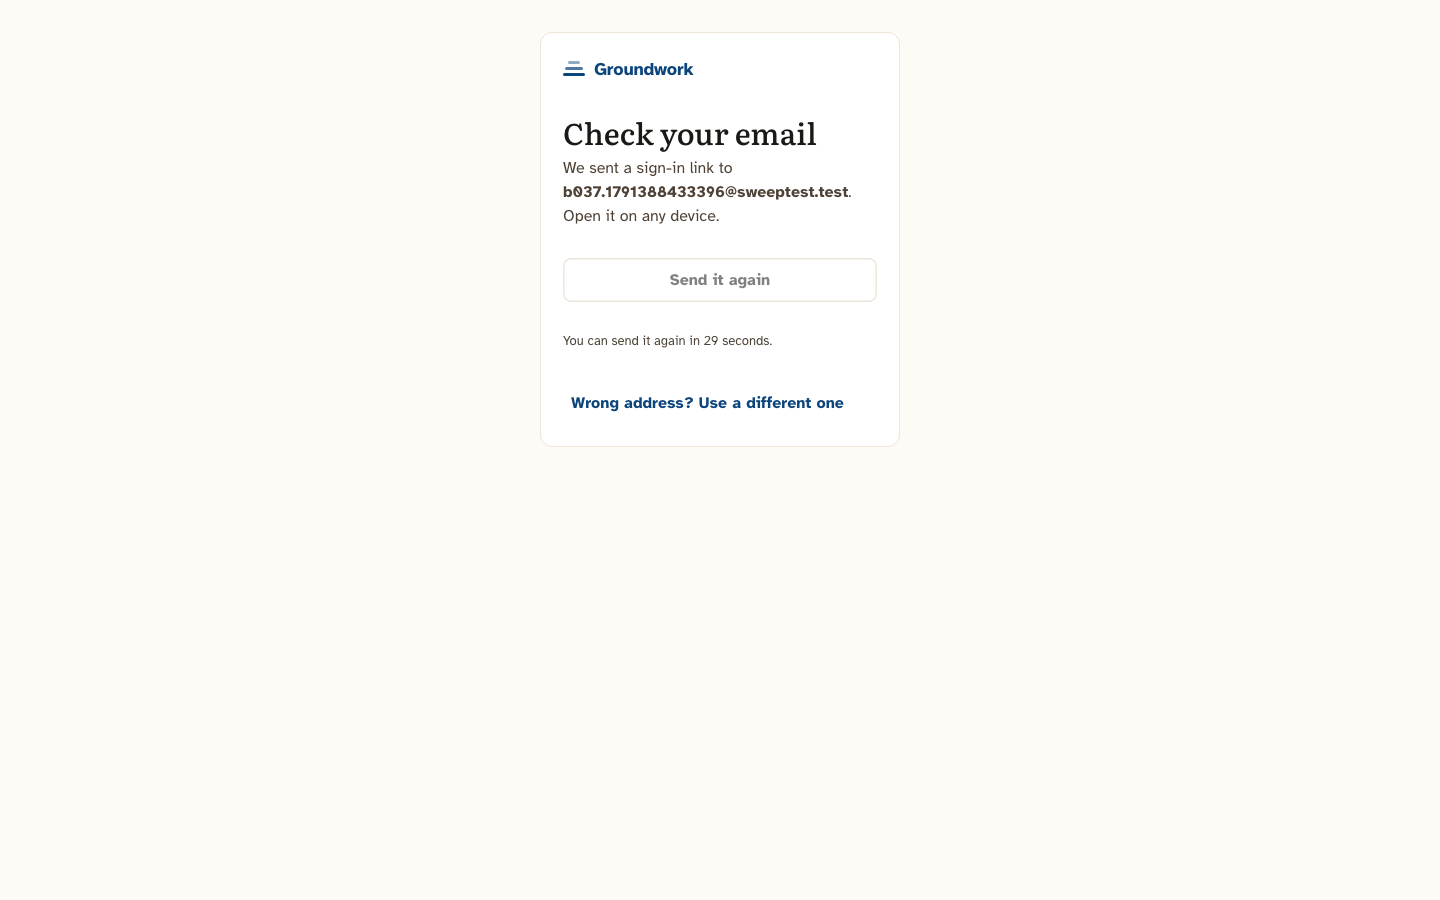
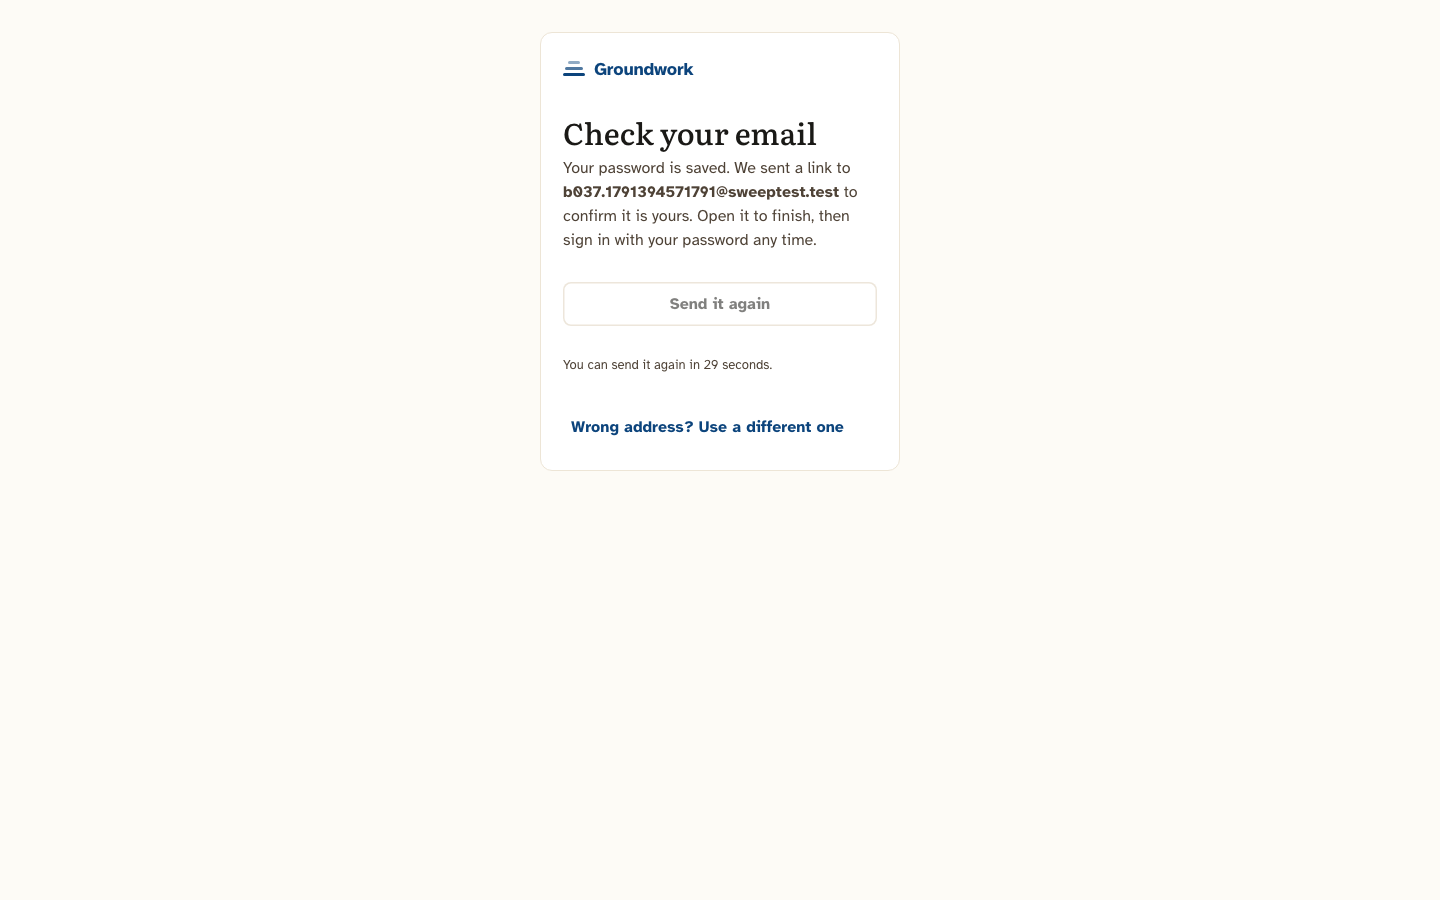
Fix B-037: "With a password" says so, instead of reading like a link
Checked against the API first: the password typed at sign-up is
genuinely saved and used - entrySave sends it, the server keeps it
for an address with no account yet, and a live probe (sign up with a
password, verify the email, sign out, sign back in with that exact
password) lands signed in. Confirming the email first is still
correct even with a password chosen, since nothing can let somebody
claim an address they have not proved they own - so "Check your
email" is the right screen either way.

What was missing was saying so: the screen read identically whether
"With a link" or "With a password" was chosen, so picking a password
looked silently ignored. LinkSentPanel now takes a withPassword flag,
set when the account was actually sent with one, and says "Your
password is saved..." instead of the plain link sentence.

a1-password-choice-still-emails.spec.ts pinned the OLD, confusing
wording as its expected behaviour (a repro, not a regression guard);
updated to pin the fixed sentence instead, with the reason in its own
comment, alongside a new unit-level spec for both branches.

Changed region(s): [[0.375, 0.1867, 0.5938, 0.3422], [0.375, 0.4356, 0.5938, 0.4978], [0.4062, 0.3733, 0.5312, 0.4044]]

diff --git a/client/src/pages/auth/b-037-with-a-password-says-so.spec.tsx b/client/src/pages/auth/b-037-with-a-password-says-so.spec.tsx
@@ -1,0 +1,66 @@
+import { describe, it, expect, vi, beforeEach } from 'vitest'
+import { render, screen, fireEvent } from '@testing-library/react'
+import { MemoryRouter, Routes, Route } from 'react-router-dom'
+import { QueryClient, QueryClientProvider } from '@tanstack/react-query'
+import { AuthPage } from './AuthPage'
+import { authApi } from '@/api/auth'
+
+/**
+ * B-037: CHOOSING "WITH A PASSWORD" AT SIGN-UP STILL READ "CHECK YOUR EMAIL... WE SENT A SIGN-IN
+ * LINK", EXACTLY LIKE THE LINK PATH, WITH NO MENTION ANYWHERE OF THE PASSWORD JUST TYPED.
+ *
+ * Checked against the API first: the password is genuinely saved and used (entrySave sends it,
+ * client/src/api/auth.ts, and the server keeps it for an address with no account yet - a live
+ * probe signing up with a password, verifying the email, and signing back in with that exact
+ * password lands signed in). Confirming the email first is still correct even with a password
+ * chosen, since nothing can let somebody claim an address they have not proved they own - so
+ * "Check your email" is right either way. What was missing was saying the password had been
+ * kept, so choosing one did not look silently ignored.
+ */
+vi.mock('@/api/auth', () => ({
+  authApi: {
+    entrySave: vi.fn(), login: vi.fn(), forgotPassword: vi.fn(), methods: vi.fn().mockResolvedValue({ magicLink: true, google: false }),
+    nameFromAddress: vi.fn().mockResolvedValue({ name: null }), verifyEmail: vi.fn(),
+  },
+}))
+vi.mock('@/api/entry', () => ({ entryApi: { commit: vi.fn().mockRejectedValue({ response: { data: { message: 'NO_ENTRY_SESSION' } } }) } }))
+vi.mock('@/api/grounds', () => ({ groundsApi: { list: vi.fn().mockResolvedValue([]) } }))
+vi.mock('@/stores/auth', () => ({ useAuthStore: (sel: any) => sel({ setAuth: vi.fn() }) }))
+vi.mock('react-router-dom', async () => {
+  const actual = await vi.importActual<any>('react-router-dom')
+  return { ...actual, useNavigate: () => vi.fn() }
+})
+
+function at(path: string, element: React.ReactNode, route: string) {
+  const qc = new QueryClient({ defaultOptions: { queries: { retry: false }, mutations: { retry: false } } })
+  return render(<QueryClientProvider client={qc}><MemoryRouter initialEntries={[path]}><Routes><Route path={route} element={element} /></Routes></MemoryRouter></QueryClientProvider>)
+}
+
+beforeEach(() => { vi.clearAllMocks(); localStorage.clear() })
+
+describe('choosing "With a password" at sign-up', () => {
+  it('says the password was kept, not the plain link sentence', async () => {
+    ;(authApi.entrySave as any).mockResolvedValue({ message: 'ok', email: 'ama@gmail.com', passwordKey: 'k'.repeat(64) })
+    at('/auth?mode=signup', <AuthPage />, '/auth')
+    fireEvent.change(await screen.findByLabelText('Your name'), { target: { value: 'Ama' } })
+    fireEvent.change(screen.getByLabelText('Email'), { target: { value: 'ama@gmail.com' } })
+    fireEvent.click(screen.getByRole('radio', { name: 'With a password' }))
+    fireEvent.change(screen.getByLabelText('Password'), { target: { value: 'harbour7lamp' } })
+    fireEvent.change(screen.getByLabelText('Type it again'), { target: { value: 'harbour7lamp' } })
+    fireEvent.click(screen.getByRole('button', { name: 'Create account' }))
+    await screen.findByRole('heading', { name: 'Check your email' })
+    expect(screen.getByText(/Your password is saved/)).toBeTruthy()
+    expect(screen.queryByText('We sent a sign-in link to ama@gmail.com. Open it on any device.')).toBeNull()
+  })
+
+  it('reads the plain link sentence when "With a link" is chosen instead', async () => {
+    ;(authApi.entrySave as any).mockResolvedValue({ message: 'ok', email: 'ama@gmail.com' })
+    at('/auth?mode=signup', <AuthPage />, '/auth')
+    fireEvent.change(await screen.findByLabelText('Your name'), { target: { value: 'Ama' } })
+    fireEvent.change(screen.getByLabelText('Email'), { target: { value: 'ama@gmail.com' } })
+    fireEvent.click(screen.getByRole('button', { name: 'Create account' }))
+    await screen.findByRole('heading', { name: 'Check your email' })
+    expect(screen.queryByText(/Your password is saved/)).toBeNull()
+    expect(screen.getByText(/We sent a sign-in link to/)).toBeTruthy()
+  })
+})

diff --git a/e2e/sweep/a1-password-choice-still-emails.spec.ts b/e2e/sweep/a1-password-choice-still-emails.spec.ts
@@ -3,17 +3,24 @@ import { APP } from '../user-journeys-helpers';
 import { screenshotTo, bugPath } from './sweep-helpers';
 
 /**
- * B-037. A1, sign-up form: choosing "With a password" up front still sends an email link, and
- * the post-verify page still says sign-in links will be used, rather than ever asking for or
- * confirming the password typed on the form.
+ * B-037. A1, sign-up form: choosing "With a password" up front still lands on "Check your
+ * email", with no sentence anywhere saying the password typed on the form was kept.
  *
- * Found first during the tester's interactive M1 sweep (using the Browser pane): picking "With a
- * password" on /auth, filling both password fields and pressing "Create account" produced the
- * same "Check your email" screen as the link path, and the email that arrived was "Your
- * Groundwork sign-in link", not an account-created or verify-your-password email. This spec
- * reproduces it standalone with a screenshot.
+ * CHECKED AGAINST THE API FIRST (per the sweep's instructions): the password IS saved and IS
+ * used. `entrySave` sends it (client/src/api/auth.ts), the server keeps it for an address with
+ * no account yet, and a live probe (sign up with a password, verify the email, sign out, sign
+ * back in with that exact password) lands signed in - the account genuinely was made with that
+ * password. Confirming the address by email first is still correct even so: nothing can let
+ * somebody claim an address they have not proved they own, so an email round trip is not
+ * avoidable. What was missing was telling the person that - this screen read identically
+ * whichever door was chosen, so picking a password looked silently ignored even though it was
+ * not. Fixed by LinkSentPanel's own `withPassword` sentence, said only when a password was
+ * actually sent with the account.
+ *
+ * This test used to pin the OLD, CONFUSING wording as "expected" (a reproduction, not a
+ * regression guard). Updated, with this comment, to pin the fixed sentence instead.
  */
-test('B-037: choosing "With a password" on sign-up still only sends an email link', async ({ page }) => {
+test('B-037: choosing "With a password" on sign-up says the password was kept', async ({ page }) => {
   await page.setViewportSize({ width: 1440, height: 900 });
   const stamp = Date.now();
   await page.goto(`${APP}/auth`);
@@ -30,7 +37,9 @@ test('B-037: choosing "With a password" on sign-up still only sends an email lin
   await page.getByRole('button', { name: 'Create account' }).click();
   await page.waitForTimeout(1500);
   const checkEmail = await page.getByText('Check your email').isVisible().catch(() => false);
+  const saysPasswordKept = await page.getByText(/Your password is saved/).isVisible().catch(() => false);
   await page.screenshot({ path: bugPath('B-037', 'password-choice-still-emails', '1440'), fullPage: true });
-  console.log('B-037: "Check your email" shown after choosing "With a password" up front:', checkEmail);
-  expect(checkEmail, 'Expected the current (buggy) behaviour: a password sign-up still lands on "Check your email"').toBe(true);
+  console.log('B-037: "Check your email" shown after choosing "With a password":', checkEmail, '- and it says so:', saysPasswordKept);
+  expect(checkEmail, 'Confirming the email is still required, and still correct, even with a password chosen').toBe(true);
+  expect(saysPasswordKept, 'The screen must say the password was kept, not read identically to the link path').toBe(true);
 });

diff --git a/client/src/pages/auth/AuthPage.tsx b/client/src/pages/auth/AuthPage.tsx
@@ -274,6 +274,18 @@ export function AuthPage() {
    * the second link carries exactly what the first did.
    */
   const [sentBy, setSentBy] = useState<'link' | 'create'>('link')
+  /*
+   * B-037: "WITH A PASSWORD" STILL READ "CHECK YOUR EMAIL... WE SENT A SIGN-IN LINK", with no
+   * mention anywhere that the password just typed had been kept.
+   *
+   * The password IS saved and does work (entrySave sends it, and it signs the person in
+   * afterwards exactly like any other password) - confirming the email is still required either
+   * way, since nothing can let somebody claim an address they have not proved they own. What was
+   * missing was telling them that: this page read identically whichever door was chosen, so
+   * choosing a password looked ignored even though it was not. Set once, when a password is
+   * actually sent with the account.
+   */
+  const [createdWithPassword, setCreatedWithPassword] = useState(false)
   /* `nextPath` rides with the link, so opening it from the mailbox comes back here (U.3 review). It is
      only sent when there is one, so every other request is exactly what it was. */
   const save = (draft: Parameters<typeof authApi.entrySave>[1], password?: string) => nextPath
@@ -361,7 +373,7 @@ export function AuthPage() {
       ? save({ payload: whatTheyTyped() }, signInBy === 'password' ? newPassword : undefined)
       : authApi.entrySave(email.trim().toLowerCase(), { payload: whatTheyTyped() }, trap.filled, signInBy === 'password' ? newPassword : undefined),
     /* The key for a password chosen here stays in this browser (the-password-key.ts, U.3 review). */
-    onSuccess: (data: any) => { keepThePasswordKey(data?.passwordKey); setSentBy('create'); setLinkSent(true) },
+    onSuccess: (data: any) => { keepThePasswordKey(data?.passwordKey); setSentBy('create'); setCreatedWithPassword(signInBy === 'password'); setLinkSent(true) },
     onError: (err: any) => {
       const status = err?.response?.status
       if (!status || status >= 500) {
@@ -512,6 +524,7 @@ export function AuthPage() {
         email={email}
         resend={sendTheLinkAgain}
         onUseDifferent={() => { setLinkSent(false); setView(defaultView === 'create' ? 'create' : 'link') }}
+        withPassword={sentBy === 'create' && createdWithPassword}
       />
     )
   }

diff --git a/client/src/pages/auth/LinkSentPanel.tsx b/client/src/pages/auth/LinkSentPanel.tsx
@@ -32,7 +32,7 @@ const WAIT_SECONDS = 30
  * typed was set to nothing. So the caller, which knows what sent the first link, says how to send it
  * again.
  */
-export function LinkSentPanel({ email, resend: sendAgain, onUseDifferent, forReset }: {
+export function LinkSentPanel({ email, resend: sendAgain, onUseDifferent, forReset, withPassword }: {
   email: string
   /**
    * A password-reset link rather than a sign-in link. The sentence stays the same whether or not the
@@ -42,6 +42,13 @@ export function LinkSentPanel({ email, resend: sendAgain, onUseDifferent, forRes
   /** Sends the link again, the same way the first one was sent. */
   resend: () => Promise<unknown>
   onUseDifferent: () => void
+  /**
+   * B-037: set when the account being created chose "With a password". The password is saved
+   * server-side already (entrySave sends it, and it does sign the person in afterwards); what was
+   * missing was saying so here, since confirming the email first is still required either way -
+   * nothing can let somebody claim an address they have not proved they own.
+   */
+  withPassword?: boolean
 }) {
   const [countdown, setCountdown] = useState(WAIT_SECONDS)
   const [sentAgain, setSentAgain] = useState(false)
@@ -64,7 +71,9 @@ export function LinkSentPanel({ email, resend: sendAgain, onUseDifferent, forRes
       title="Check your email"
       sub={forReset
         ? <>If there is an account for <strong>{email}</strong>, we sent it a link to choose a new password. The link works for an hour.</>
-        : <>We sent a sign-in link to <strong>{email}</strong>. Open it on any device.</>}
+        : withPassword
+          ? <>Your password is saved. We sent a link to <strong>{email}</strong> to confirm it is yours. Open it to finish, then sign in with your password any time.</>
+          : <>We sent a sign-in link to <strong>{email}</strong>. Open it on any device.</>}
     >
       {failed && <AuthError>{failed}</AuthError>}
       <Stack gap={10}>

diff --git a/docs/bug-log-screens.md b/docs/bug-log-screens.md
@@ -47,7 +47,7 @@ Screenshots are in `docs/page-audit/` (named `<number>-<page>-<role>-<width>.png
 | B-014 | (seen again in M6) `Ask Suites Test Company`, sidebar panel from `/today` | Team member (Peter Okoro, Suites Test Company), browser (1440) | Asked "What have I said in my check-ins so far?", Peter got "I cannot answer that one yet. Here is what I can do with ..." and four buttons, the same unplaced-lane refusal as B-014's original rows. | (see B-014) | Stops someone using it (engine) | | |
 | B-002 | (seen again in M2 and M4) console/network on check-in and board pages | Team member (Amani Wekesa, Grace Mwangi), browser (1440) | The same `400 POST /api/v1/entry/commit` and `404` suite-queue/leave/spend requests fire on every check-in page load during M2 and M4, exactly as already logged under A1/L1. | (see B-002) | Confusing | | |
 | B-027/B-028 | (seen again in M2) Sales team, Q3, session 3 report | Team member (Amani Wekesa), browser (1440) | The session header says "Session 3" but the coaching section says "You are at session 1 of 12 for this work" (B-027's class of defect, a new instance); "The finding" repeats B-028's exact wording verbatim ("nairobi, shop, westland, karen", lowercased place names), confirming it is not a one-off. | (see B-027, B-028) | Wrong information (engine) | | |
-| B-037 | A1, `/auth` sign-up form | A brand-new admin choosing "With a password", browser (1440, Playwright) | Choosing "With a password" up front, filling both password boxes correctly and pressing "Create account" still lands on "Check your email" and only ever sends "Your Groundwork sign-in link" - the typed password is never used or asked for again anywhere in the flow. | Choosing "With a password" should create the account with that password, not silently fall back to an emailed link. | Confusing | B-037-password-choice-still-emails-1440.png | |
+| B-037 | A1, `/auth` sign-up form | A brand-new admin choosing "With a password", browser (1440, Playwright) | Choosing "With a password" up front, filling both password boxes correctly and pressing "Create account" still lands on "Check your email" and only ever sends "Your Groundwork sign-in link" - the typed password is never used or asked for again anywhere in the flow. | Choosing "With a password" should create the account with that password, not silently fall back to an emailed link. | Confusing | B-037-password-choice-still-emails-1440.png | Checked against the API first: the password is genuinely saved and used (`entrySave`, confirmed live by signing up with a password, verifying, signing out, and signing back in with that exact password). Confirming the email first is still correct even so. Fixed the missing wording (`b-037-with-a-password-says-so.spec.tsx`, and `a1-password-choice-still-emails.spec.ts` updated from a repro into a regression guard, with the reason in its own comment): "Check your email" now says the password was kept, instead of reading identically to the link path. |
 | B-038 | M1/A2, Invite people box (a second, fresh organisation) | Admin, browser (1440, Playwright) | Inviting "王小明, chinese...@sweeptest.test" (a CJK name) on one documented "Name, email" line does not just mis-split like B-033's Latin-name case - the name is dropped entirely and replaced with "Chinese", capitalised and clearly derived from the email's local part ("chinese"), with no non-Latin character surviving anywhere. Arabic ("فاطمة الزهراء") and Devanagari ("प्रिया शर्मा") names on the same kind of line came through correctly in the same test. | A name in any script should be kept, the same as a Latin one; nothing should replace it with a word taken from the email address. | Wrong information | B-038-cjk-name-dropped-1440.png |  Checked `api/src/modules/users/putting-a-whole-company-on.ts`: the same `aFullName` rule also requires a space in the name on a comma-separated line, which a CJK name never has. Engine, request 190 (combined with B-033). |
 | B-039 | M1/A2, People list, same organisation as B-038 | Admin, browser (1440, Playwright) | An 80-character invited name ("AAAA...A BBBB...B") renders as two lines of repeated letters that visually overlap/clip in the table row, instead of wrapping or truncating cleanly. | A very long name should wrap or truncate without overlapping other text in the row. | Cosmetic | B-039-long-name-overlap-1440.png | |
 | B-040 | M1/A2, Invite people box, a 5-person free-plan organisation already full | Admin, browser (1440, Playwright) | Inviting a 6th person on a plan with room for 5 produces no feedback at all: no error, no "waiting for a seat" wording, no mention of the person anywhere on People afterwards. The admin has no way to tell the invite did not go through. | Reaching the plan's limit should tell the admin plainly, e.g. that this person is waiting for a seat, not say nothing. | Confusing | B-040-seat-limit-silent-1440.png | |
